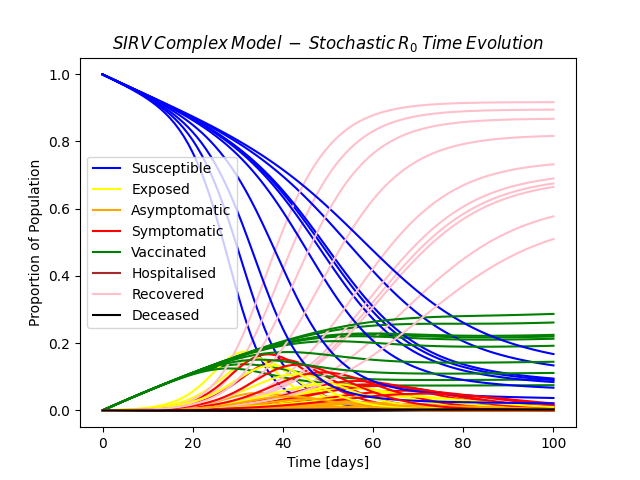
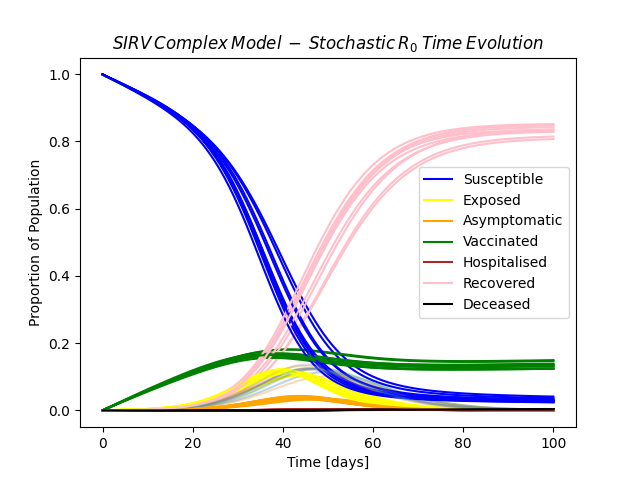
Created Monte Carlo experiment and obtained confidence intervals. Created simulated data with noise.

Changed region(s): [[0.125, 0.1875, 0.875, 0.875], [0.2188, 0.1875, 0.25, 0.2188], [0.1875, 0.8125, 0.2188, 0.8438]]

diff --git a/confidence_intervals_experiment.py b/confidence_intervals_experiment.py
@@ -1,0 +1,44 @@
+from run_model import run_model
+import matplotlib.pyplot as plt
+import argparse
+import numpy as np
+import scipy.stats as st
+
+"""
+    This file is used to obtain confidence intervals from a Monte Carlo experiment of the model.
+"""
+
+
+def use_args(args):
+    t_span = np.array([0, args.days])
+    t = np.linspace(t_span[0], t_span[1], t_span[1] + 1)
+    solutions = []
+    for i in range(1000):
+        solutions.append(run_model('sirv_c', population=1000e3, R_0=3.5, vac_frac=0, nat_imm_rate=0, vac_ef=0.8, vaccination_rate=0.006, days=args.days, stochastic=True)[0])
+        S, E, A, Sy, H, R, D, V, A_v, Sy_v, H_v = solutions[i]
+        N = S + E + A + Sy + H + R + V + A_v + Sy_v + H_v
+        plt.plot(t, (Sy+Sy_v)/N, alpha=0.3, color='green')
+        print('Done:', i+1,'/1000')
+    solutions = np.array(solutions)
+    infected_curves = solutions[:,3]+solutions[:,9]  # symptomatic: non-vaccinated[,3] and vaccinated[,9]
+    infected_curves_time_series = [infected_curves[:,i] for i in range(len(infected_curves[0]))]
+    mean = [np.mean(el) for el in infected_curves_time_series]
+    confidence_curve_low = [(st.t.interval(alpha=0.95, df=len(el)-1, loc=np.mean(el), scale=np.std(el)))[0] for el in infected_curves_time_series]
+    confidence_curve_high = [(st.t.interval(alpha=0.95, df=len(el)-1, loc=np.mean(el), scale=np.std(el)))[1] for el in infected_curves_time_series]
+    plt.title(r'$SIRV \: Complex \: Model \:- \: Stochastic \: R_0 \: Time \: Evolution$')
+    plt.xlabel('Time [days]')
+    plt.ylabel('Proportion of Population')
+    plt.plot(t, mean/N, '--', label='mean', linewidth=2, color='black')
+    plt.plot(t, confidence_curve_low/N, '--', label='a=2.5%', linewidth=2, color='red')
+    plt.plot(t, confidence_curve_high/N, '--', label='a=97.5%', linewidth=2, color='blue')
+    plt.legend()
+    plt.savefig('Plots/sirv_c_confidence_intervals.png')
+    plt.show()
+
+
+if __name__ == '__main__':
+    parser = argparse.ArgumentParser(description='Georgios Alevras: Confidence Interval Experiment',
+                                     epilog='Enjoy the script :)')
+    parser.add_argument('-d', '--days', type=int, help='Number of days of model to run')
+    arguments = parser.parse_args()  # Parses all arguments provided at script on command-line
+    use_args(arguments)  # Executes code according to arguments provided

diff --git a/vaccinated_fraction_research.py b/vaccinated_fraction_research.py
@@ -89,11 +89,13 @@ def use_args(args):
         for i in range(len(vaccine_efficacies)):
             t = theoretical(np.array(vaccine_efficacy_curves[i]), vaccine_efficacies[i], nat_imm=n_i)
             fractional_residuals = (t-R_0_to_plot[i])/t
-            residuals_metrics.append([np.average(fractional_residuals), max(abs(fractional_residuals))])
+            sum_of_squares = np.sum((t-R_0_to_plot[i])**2)
+            residuals_metrics.append([np.average(fractional_residuals), max(abs(fractional_residuals)), sum_of_squares])
         residuals_metrics = np.array(residuals_metrics)
         avg_res = np.average(residuals_metrics[:,0])
         max_res = max(residuals_metrics[:,1])
-        print('Average residual:', avg_res, '\nMaximum residual:', max_res)
+        sum_sq = sum_of_squares
+        print('Average residual:', round(avg_res, 6), '\nMaximum residual:', round(max_res, 6), '\nSum of Squares:', round(sum_sq, 6))
 
         fig, ax = plt.subplots()
         colors = ['black', 'blue', 'green', 'red', 'orange', 'purple']
@@ -133,11 +135,13 @@ def use_args(args):
         for i in range(len(vaccine_efficacies)):
             t = theoretical(np.array(vaccine_efficacy_curves[i]), vaccine_efficacies[i], nat_imm=n_i)
             fractional_residuals = (t-R_0_to_plot[i])/t
-            residuals_metrics.append([np.average(fractional_residuals), max(abs(fractional_residuals))])
+            sum_of_squares = np.sum((t-R_0_to_plot[i])**2)
+            residuals_metrics.append([np.average(fractional_residuals), max(abs(fractional_residuals)), sum_of_squares])
         residuals_metrics = np.array(residuals_metrics)
         avg_res = np.average(residuals_metrics[:,0])
         max_res = max(residuals_metrics[:,1])
-        print('Average residual:', avg_res, '\nMaximum residual:', max_res)
+        sum_sq = sum_of_squares
+        print('Average residual:', round(avg_res, 6), '\nMaximum residual:', round(max_res, 6), '\nSum of Squares:', round(sum_sq, 6))
 
         fig, ax = plt.subplots()
         colors = ['black', 'blue', 'green', 'red', 'orange', 'purple']

diff --git a/generate_simulated_data.py b/generate_simulated_data.py
@@ -1,0 +1,32 @@
+from run_model import run_model
+import matplotlib.pyplot as plt
+import argparse
+import numpy as np
+
+
+def use_args(args):
+    t_span = np.array([0, args.days])
+    t = np.linspace(t_span[0], t_span[1], t_span[1] + 1)
+    solutions = np.array(run_model('sirv_c', population=1000e3, R_0=3.5, vac_frac=0, nat_imm_rate=0, vac_ef=0.8, vaccination_rate=0.006, days=args.days, stochastic=False)[0])
+    S, E, A, Sy, H, R, D, V, A_v, Sy_v, H_v = solutions
+    N = S + E + A + Sy + H + R + V + A_v + Sy_v + H_v
+    infected = solutions[3] + solutions[9]
+    signal = infected
+    noise = signal - np.random.normal(signal, 0.05*signal)
+    simulated_data = signal + noise
+    plt.plot(t, infected/N, label='Model Signal')
+    plt.plot(t, simulated_data/N, '.', label='Simulated Data')
+    plt.title('Simulated Data over Model Signal')
+    plt.xlabel('Time [days]')
+    plt.ylabel('Proportion of Population')
+    plt.legend()
+    plt.savefig('Plots/generated_simulated_data.png')
+    plt.show()
+
+
+if __name__ == '__main__':
+    parser = argparse.ArgumentParser(description='Georgios Alevras: Generation of Model Data',
+                                     epilog='Enjoy the script :)')
+    parser.add_argument('-d', '--days', type=int, help='Number of days of model to run')
+    arguments = parser.parse_args()  # Parses all arguments provided at script on command-line
+    use_args(arguments)  # Executes code according to arguments provided

diff --git a/plot_stochastic_models.py b/plot_stochastic_models.py
@@ -2,6 +2,7 @@ from run_model import run_model
 import matplotlib.pyplot as plt
 import argparse
 import numpy as np
+import scipy.stats as st
 
 """
     This file is used to plot compartmental models with stochastic parameters and see dynamics / time-evolutions of different compartments.
@@ -19,7 +20,7 @@ def use_args(args):
         plt.plot(t, S/N, label='Susceptible', color='blue')
         plt.plot(t, E/N, label='Exposed', color='yellow')
         plt.plot(t, (A+A_v)/N, label='Asymptomatic', color='orange')
-        plt.plot(t, (Sy+Sy_v)/N, label='Symptomatic', color='red')
+        plt.plot(t, (Sy+Sy_v)/N, alpha=0.3)
         plt.plot(t, V/N, label='Vaccinated', color='green')
         plt.plot(t, (H+H_v)/N, label='Hospitalised', color='brown')
         plt.plot(t, R/N, label='Recovered', color='pink')
@@ -27,6 +28,7 @@ def use_args(args):
         plt.title(r'$SIRV \: Complex \: Model \:- \: Stochastic \: R_0 \: Time \: Evolution$')
         plt.xlabel('Time [days]')
         plt.ylabel('Proportion of Population')
+        print('Done:', i+1,'/1000')
         if i == 0:
             plt.legend()
     plt.savefig('Plots/sirv_c_stochastic.png')

diff --git a/run_model.py b/run_model.py
@@ -54,10 +54,11 @@ def run_sirv_c(func, pop, R_0, vac_frac, nat_imm_rate, vac_ef, vaccination_rate,
     x_0 = [susceptible, 0, 0, symptomatic, 0, recovered, 0, (pop-susceptible-symptomatic-recovered), 0, 0, 0]
 
     if stochastic:
-        R_0 = np.random.normal(loc=3.5, scale=1)  # Draw an R_0 value from a Gaussian distribution
-        # g = np.random.normal(loc=(1/6), scale=(1/25))  # Draw an inverse serial number from a Gaussian distribution
         g = (1/6)
         args = (R_0*g, R_0*g, vaccination_rate, 0.083333333, 0.15, 0.1, g, g, 0.075, 0.003428571, 0.025, (1-vac_ef)*R_0*g, (1-vac_ef)*R_0*g, 0.1, 0.00035, 0.1, 0.00125, 0.2, g)
+        args = np.array(args)
+        sigmas = 0.1*args
+        args = [np.random.normal(m, s) for m, s in zip(args, sigmas)]
     else:
         args = (R_0*(1/6), R_0*(1/6), vaccination_rate, 0.083333333, 0.15, 0.1, (1/6), (1/6), 0.075, 0.003428571, 0.025, (1-vac_ef)*R_0*(1/6), (1-vac_ef)*R_0*(1/6), 0.1, 0.00035, 0.1, 0.00125, 0.2, (1/6))
     
